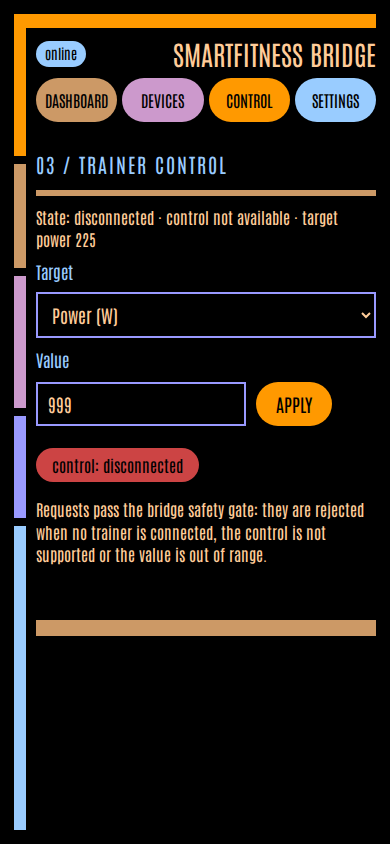
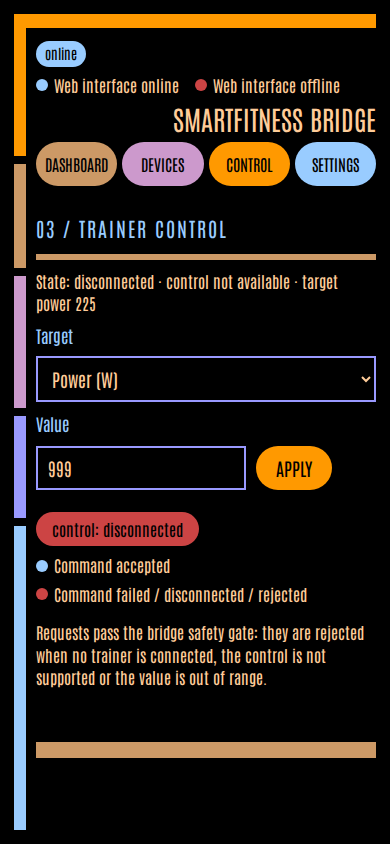
Add accessible connection color legends across web tabs

diff --git a/src/variants/web/assets/index.html b/src/variants/web/assets/index.html
@@ -12,7 +12,7 @@
 .lcars-rail{position:absolute;left:28px;top:24px;bottom:24px;width:120px;display:flex;flex-direction:column;gap:8px;z-index:-1}.lcars-rail span{display:block;flex-shrink:0}.lcars-rail span:nth-child(1){height:142px;background:var(--acc)}.lcars-rail span:nth-child(2){height:104px;background:var(--tan)}.lcars-rail span:nth-child(3){height:132px;background:var(--muted)}.lcars-rail span:nth-child(4){height:102px;background:var(--violet)}.lcars-rail span:nth-child(5){flex:1;background:var(--light)}
 header{display:flex;align-items:center;gap:16px;position:relative;min-height:100px;border-top:22px solid var(--acc);margin-bottom:24px;flex-wrap:wrap;padding:12px 0}
 header:before{content:"";position:absolute;background:var(--acc);height:22px;width:20px;top:-22px;left:-20px}
-header h1{font-size:38px;font-weight:400;line-height:1.1;text-transform:uppercase;text-align:right;margin:0;flex:1;order:2}header #conn{order:1}nav{display:flex;flex-wrap:wrap;gap:8px;order:3;width:100%}
+header h1{font-size:38px;font-weight:400;line-height:1.1;text-transform:uppercase;text-align:right;margin:0;flex:1;order:2}header .connection-status{order:1}nav{display:flex;flex-wrap:wrap;gap:8px;order:3;width:100%}
 nav button{background:var(--tan);border:0;border-radius:24px;color:#000;padding:8px 22px;font:20px Antonio,"Arial Narrow",sans-serif;text-transform:uppercase;cursor:pointer;min-height:44px}
 nav button:nth-child(2){background:var(--muted)}nav button:nth-child(3){background:var(--violet)}nav button:nth-child(4){background:var(--light)}
 nav button.active{background:var(--acc)}nav button[aria-selected="true"]:before{content:"";display:inline-block;width:8px;height:8px;background:#000;margin-right:8px}
@@ -43,7 +43,8 @@ td select{width:100%;font-size:16px}td button.b{padding:8px 14px}
 .spin{display:none;width:16px;height:16px;margin-right:8px;vertical-align:-2px;border:3px solid #000;border-right-color:transparent;border-radius:50%;animation:spin .8s linear infinite}[aria-busy="true"] .spin{display:inline-block}@keyframes spin{to{transform:rotate(360deg)}}
 #toast.bad{background:var(--bad)}#toast.ok{background:var(--ok)}.small{font-size:16px;color:var(--fg);overflow-wrap:anywhere}
 .gray{color:#888888}tr.gray td{color:#888888}tr.gray select,tr.gray button.b{opacity:.8}
-#ctl-result:not(:empty){display:inline-block;margin-top:10px;padding:6px 16px;border-radius:20px;background:var(--light);color:#000}#ctl-result.bad{background:var(--bad)}
+.status-legend{display:flex;flex-wrap:wrap;gap:6px 16px;list-style:none;padding:0;margin:8px 0 14px;font-size:16px}.status-legend li{display:flex;align-items:center;gap:6px}.status-legend .legend-swatch{display:inline-block;flex-shrink:0;width:12px;height:12px;padding:0;margin:0;border-radius:50%}.legend-swatch.gray{background:currentColor}.connection-status .status-legend{margin:4px 0 0}
+#ctl-result:not(:empty){display:inline-block;margin-top:10px;padding:6px 16px;border-radius:20px;background:var(--ok);color:#000}#ctl-result.bad{background:var(--bad)}
 .gauge{display:flex;align-items:center;gap:14px;margin:16px 0 22px;color:var(--light);text-transform:uppercase;font-size:16px}.gauge meter{flex:1;width:100%;height:14px;appearance:none;background:#000;border:2px solid var(--tan)}meter::-webkit-meter-bar{background:#000;border:0;border-radius:0}meter::-webkit-meter-optimum-value{background:var(--acc)}meter::-moz-meter-bar{background:var(--acc)}
 @media(max-width:1000px){.grid{grid-template-columns:repeat(3,minmax(0,1fr))}.status-grid{grid-template-columns:1fr}}
 @media(max-width:650px){body{padding:14px 14px 20px 36px;font-size:17px}.lcars-rail{left:14px;top:14px;bottom:14px;width:12px}header{border-top-width:14px;gap:8px;margin-bottom:18px;padding:10px 0}header:before{height:14px;top:-14px;width:10px;left:-10px}header h1{font-size:27px}header #conn{font-size:14px;padding:3px 9px}nav{gap:5px}nav button{flex:1;padding:7px 3px;font-size:16px;min-width:0}nav button[aria-selected="true"]:before{display:none}.grid{grid-template-columns:repeat(2,minmax(0,1fr));gap:12px}.metric .v{font-size:49px}.metric:last-child .v{font-size:28px}.label{font-size:16px}.pill{font-size:15px;padding:4px 10px}.row{gap:8px}.row label{min-width:0;flex-basis:100%}.row input:not([type="checkbox"]),.row select{width:100%}.card{padding-top:10px}table,tbody,tr,td{display:block}thead{display:none}tr{border-bottom:6px solid var(--muted);padding:12px 0}td{border:0;padding:4px 0}td[data-label]:before{content:attr(data-label) ": ";color:var(--muted)}td select{width:100%}#ctl-value{flex:1;width:auto;max-width:210px}.gauge{gap:8px;font-size:14px}section h2{font-size:20px;margin-bottom:12px}}
@@ -55,7 +56,11 @@ td select{width:100%;font-size:16px}td button.b{padding:8px 14px}
 </head>
 <body>
 <div class="lcars-rail" aria-hidden="true"><span></span><span></span><span></span><span></span><span></span></div>
-<header><h1>SmartFitness Bridge</h1><span id="conn" class="pill bad" role="status">offline</span>
+<header><h1>SmartFitness Bridge</h1><div class="connection-status"><span id="conn" class="pill bad" role="status">offline</span>
+<ul class="status-legend" aria-label="Web connection color legend">
+ <li><span class="legend-swatch pill ok" aria-hidden="true"></span>Web interface online</li>
+ <li><span class="legend-swatch pill bad" aria-hidden="true"></span>Web interface offline</li>
+</ul></div>
 <nav role="tablist" aria-label="Bridge panels"><button id="tab-dash" role="tab" aria-controls="dash" aria-selected="true" tabindex="0" data-tab="dash" class="active">Dashboard</button><button id="tab-dev" role="tab" aria-controls="dev" aria-selected="false" tabindex="-1" data-tab="dev">Devices</button><button id="tab-ctl" role="tab" aria-controls="ctl" aria-selected="false" tabindex="-1" data-tab="ctl">Control</button><button id="tab-set" role="tab" aria-controls="set" aria-selected="false" tabindex="-1" data-tab="set">Settings</button>
 <!-- #ifdef DEBUG_WEB -->
 <button id="tab-debug" role="tab" aria-controls="debug" aria-selected="false" tabindex="-1" data-tab="debug">Debug</button>
@@ -80,16 +85,31 @@ td select{width:100%;font-size:16px}td button.b{padding:8px 14px}
  <div class="card"><div class="label">Output (Zwift, MyWhoosh, …)</div><div id="s-out"></div></div>
  <div class="card"><div class="label">Network</div><div id="s-net"></div></div>
  </div>
+ <ul class="status-legend" aria-label="Bridge connection color legend">
+  <li><span class="legend-swatch pill ok" aria-hidden="true"></span>Connected / ready / active</li>
+  <li><span class="legend-swatch pill bad" aria-hidden="true"></span>Disconnected / error</li>
+  <li><span class="legend-swatch pill warn" aria-hidden="true"></span>Retry backoff / stale data / missing ANT+ stick</li>
+  <li><span class="legend-swatch pill" aria-hidden="true"></span>Connecting / scanning / advertising / inactive / info</li>
+ </ul>
 </section>
 <section id="dev" role="tabpanel" aria-labelledby="tab-dev" tabindex="0" hidden>
  <h2>02 / Device registry</h2>
  <div class="card"><div class="label">Paired device</div><div id="paired">none</div>
   <div class="label">Advertised services</div><div id="paired-advertised" class="service-pills"></div>
   <div class="label">Subscribed characteristics</div><div id="paired-subscriptions" class="service-pills"></div>
+  <ul class="status-legend" aria-label="Bluetooth service color legend">
+   <li><span class="legend-swatch pill sensor" aria-hidden="true"></span>Advertised service</li>
+   <li><span class="legend-swatch pill ok" aria-hidden="true"></span>Subscribed / OK</li>
+   <li><span class="legend-swatch pill pending" aria-hidden="true"></span>Pending / none reported</li>
+   <li><span class="legend-swatch pill bad" aria-hidden="true"></span>Subscription failed</li>
+  </ul>
   <div class="row"><button class="b" id="btn-connect">Connect</button><button class="b sec" id="btn-disconnect">Disconnect</button><button class="b danger" id="btn-unpair">Unpair</button><button class="b sec" id="btn-sim">Use simulation</button></div></div>
  <div class="card"><div class="row"><button class="b" id="btn-scan">Scan</button><button class="b sec" id="btn-scan-stop">Stop</button><span id="scan-state" class="small"></span></div>
   <table aria-label="Discovered Bluetooth devices"><thead><tr><th scope="col">Name / address</th><th scope="col">RSSI</th><th scope="col">Services</th><th scope="col">Adapter</th><th scope="col">Action</th></tr></thead><tbody id="scan-body"></tbody></table>
   <p class="small">The detected adapter is preselected; choose another one to override the detection. Devices without a match need a manual choice.</p></div>
+ <ul class="status-legend" aria-label="Bluetooth scan color legend">
+  <li><span class="legend-swatch gray" aria-hidden="true"></span>Unrelated device / unnamed device</li>
+ </ul>
 </section>
 <section id="ctl" role="tabpanel" aria-labelledby="tab-ctl" tabindex="0" hidden>
  <h2>03 / Trainer control</h2>
@@ -97,6 +117,10 @@ td select{width:100%;font-size:16px}td button.b{padding:8px 14px}
   <div class="row"><label for="ctl-kind">Target</label><select id="ctl-kind"><option value="power">Power (W)</option><option value="resistance">Resistance (%)</option><option value="incline">Incline / grade (%)</option><option value="speed">Speed (km/h)</option></select></div>
   <div class="row"><label for="ctl-value">Value</label><input id="ctl-value" type="number" step="any" value="150"><button class="b" id="btn-apply">Apply</button></div>
   <div id="ctl-result" class="small" role="status" aria-live="polite"></div>
+  <ul class="status-legend" aria-label="Control result color legend">
+   <li><span class="legend-swatch pill ok" aria-hidden="true"></span>Command accepted</li>
+   <li><span class="legend-swatch pill bad" aria-hidden="true"></span>Command failed / disconnected / rejected</li>
+  </ul>
   <p class="small">Requests pass the bridge safety gate: they are rejected when no trainer is connected, the control is not supported or the value is out of range.</p></div>
 </section>
 <section id="set" role="tabpanel" aria-labelledby="tab-set" tabindex="0" hidden>
@@ -113,6 +137,11 @@ td select{width:100%;font-size:16px}td button.b{padding:8px 14px}
   <div id="ant-services" hidden><div class="label">ANT+ output channels</div><div id="c-antServices" class="service-options" role="group" aria-label="ANT+ output channels"></div>
   <div id="ant-service-state" class="service-pills" aria-label="ANT+ channel state"></div>
   <p id="c-antWarning" class="small service-note bad" role="status" hidden>FE-C + Power duplicates power. Pair only one power source in your app.</p></div>
+  <ul class="status-legend" aria-label="Output service color legend">
+  <li><span class="legend-swatch pill ok" aria-hidden="true"></span>Service active / channel open / channel capacity</li>
+  <li><span class="legend-swatch pill pending" aria-hidden="true"></span>Pending / off</li>
+  <li><span class="legend-swatch pill bad" aria-hidden="true"></span>Failed / error / duplicate power warning</li>
+  </ul>
   <div class="row"><label for="c-simulatedTrainer">Simulation is a trainer</label><input id="c-simulatedTrainer" type="checkbox"></div></div>
  <div class="card"><div class="label">Wi-Fi (applied after restart)</div>
   <div class="row"><label for="c-wifiSsid">Network (SSID)</label><div class="combo"><input id="c-wifiSsid" maxlength="32" placeholder="empty = access point only" role="combobox" aria-autocomplete="none" aria-expanded="false" aria-controls="wifi-list" autocomplete="off"><ul id="wifi-list" role="listbox" aria-label="Wi-Fi networks" hidden></ul></div><button class="b sec" id="btn-wifi-scan" aria-busy="false"><span class="spin" aria-hidden="true"></span>Scan</button></div>

diff --git a/scripts/web_screenshots.py b/scripts/web_screenshots.py
@@ -160,6 +160,61 @@ def check_view(page, panel, mobile):
     assert page.evaluate(
         "document.documentElement.scrollWidth <= window.innerWidth"
     ), f"Horizontal overflow in {'mobile' if mobile else 'desktop'} {panel}"
+    legends = {
+        "Web connection": ["Web interface online", "Web interface offline"],
+        "Bridge connection": [
+            "Connected / ready / active", "Disconnected / error",
+            "Retry backoff / stale data / missing ANT+ stick",
+            "Connecting / scanning / advertising / inactive / info"],
+        "Bluetooth service": ["Advertised service", "Subscribed / OK",
+                              "Pending / none reported", "Subscription failed"],
+        "Bluetooth scan": ["Unrelated device / unnamed device"],
+        "Control result": ["Command accepted", "Command failed / disconnected / rejected"],
+        "Output service": ["Service active / channel open / channel capacity",
+                           "Pending / off", "Failed / error / duplicate power warning"],
+    }
+    names = ["Web connection"] + {
+        "dash": ["Bridge connection"], "dev": ["Bluetooth service", "Bluetooth scan"],
+        "ctl": ["Control result"], "set": ["Output service"], "debug": [],
+    }[panel]
+    expect(page.locator(".status-legend:visible")).to_have_count(len(names))
+    for name in names:
+        legend = page.get_by_role("list", name=f"{name} color legend", exact=True)
+        expect(legend).to_be_visible()
+        expect(legend.locator("li")).to_have_text(legends[name])
+        expect(legend.locator('.legend-swatch[aria-hidden="true"]')).to_have_count(
+            len(legends[name]))
+
+
+def check_legend_colors(page):
+    references = [
+        (".pill.ok", "#conn", "backgroundColor"),
+        (".pill.bad", "#s-input .bad", "backgroundColor"),
+        (".pill.warn", "#s-input .warn", "backgroundColor"),
+        (".pill.pending", "#paired-subscriptions .pending", "backgroundColor"),
+        (".pill.sensor", "#paired-advertised .sensor", "backgroundColor"),
+        (".gray", "#scan-body .gray", "color"),
+        (".pill:not(.ok):not(.bad):not(.warn):not(.pending):not(.sensor)",
+         "#s-input .pill", "backgroundColor"),
+    ]
+    # A theme change must affect real indicators and legend samples together.
+    for theme in ({}, {"--ok": "#123456", "--bad": "#654321", "--warn": "#abcdef",
+                       "--tan": "#fedcba", "--violet": "#456789"}):
+        page.evaluate("""theme => {
+            for (const [key, value] of Object.entries(theme))
+                document.documentElement.style.setProperty(key, value);
+        }""", theme)
+        for selector, reference, prop in references:
+            color = page.locator(reference).first.evaluate(
+                "(e, prop) => getComputedStyle(e)[prop]", prop)
+            assert page.locator(".status-legend .legend-swatch" + selector).evaluate_all(
+                "(elements, color) => elements.length > 0 && elements.every("
+                "e => getComputedStyle(e).backgroundColor === color)", color
+            ), f"Legend color mismatch for {selector}"
+    page.evaluate("""() => {
+        for (const key of ['--ok', '--bad', '--warn', '--tan', '--violet'])
+            document.documentElement.style.removeProperty(key);
+    }""")
 
 
 def render(browser, output, name, width, height):
@@ -287,6 +342,7 @@ def render(browser, output, name, width, height):
     expect(page.locator("#ctl-state")).to_contain_text("control not available")
     assert page.locator("#s-input .bad").evaluate(
         "e => getComputedStyle(e).backgroundColor") == "rgb(204, 68, 68)"
+    check_legend_colors(page)
 
     panel_names = {"dash": "dashboard", "dev": "devices", "ctl": "control", "set": "settings"}
     for number, panel in enumerate(panel_names, start=1 if name == "desktop" else 5):
@@ -333,6 +389,10 @@ def render(browser, output, name, width, height):
             assert commands[-1] == ("control", {"control": "power", "value": 999})
             assert page.locator("#ctl-result").evaluate(
                 "e => getComputedStyle(e).backgroundColor") == "rgb(204, 68, 68)"
+            assert page.locator("#ctl-result").evaluate(
+                "e => getComputedStyle(e).backgroundColor") == page.locator(
+                    "#ctl .legend-swatch.bad").evaluate(
+                        "e => getComputedStyle(e).backgroundColor")
         elif panel == "set":
             expect(page.locator("#c-ftmsName")).to_have_value("SmartFitness")
             expect(page.locator("#c-wifiPassword")).to_have_value("")
